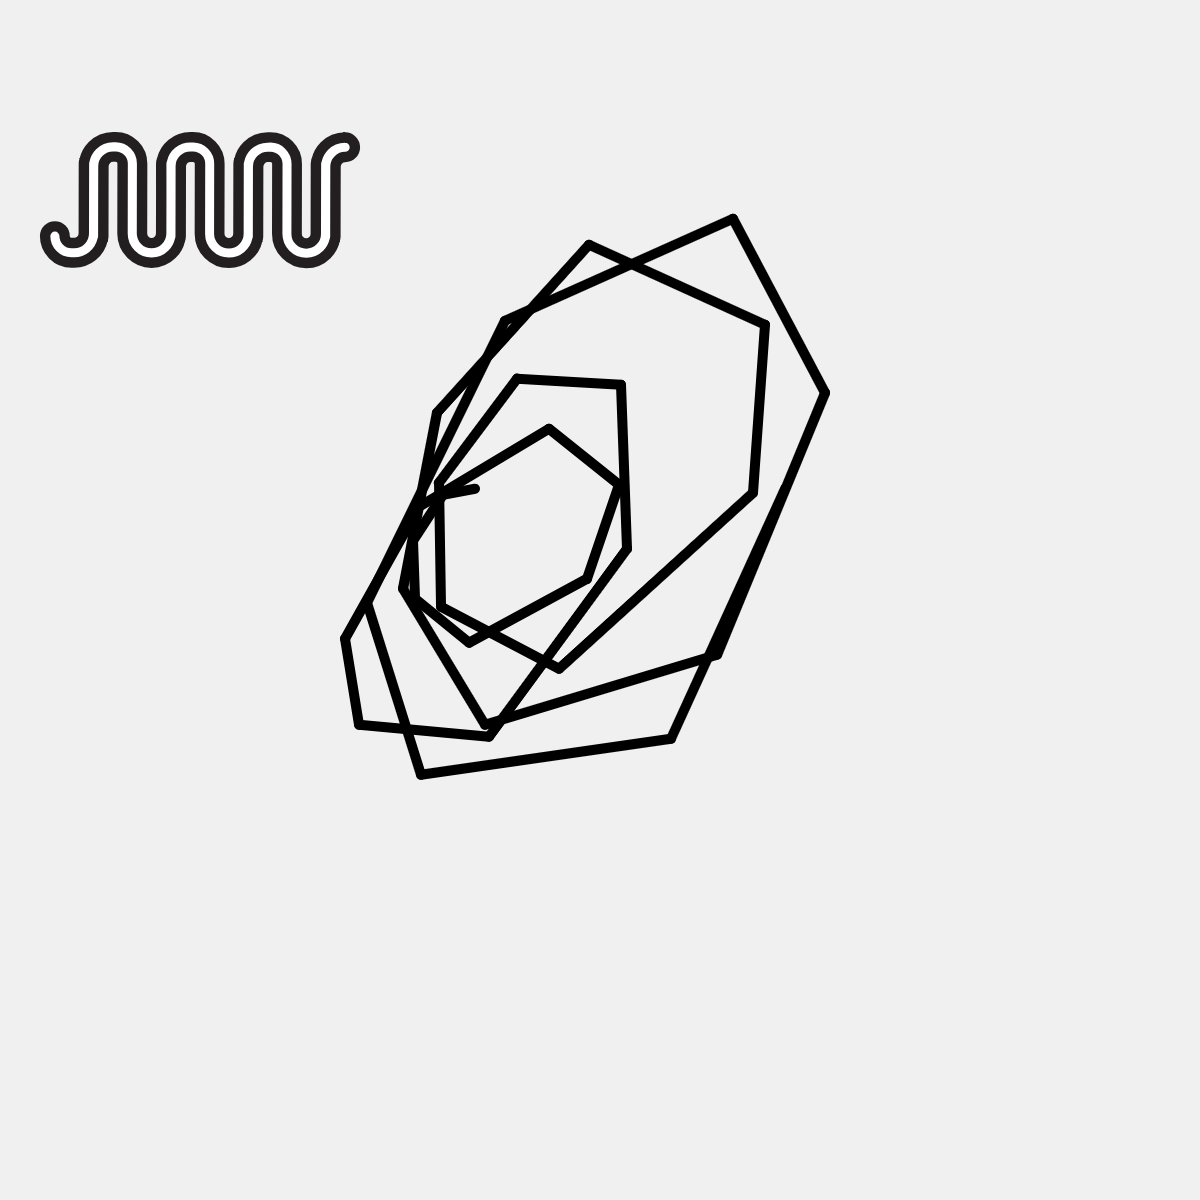
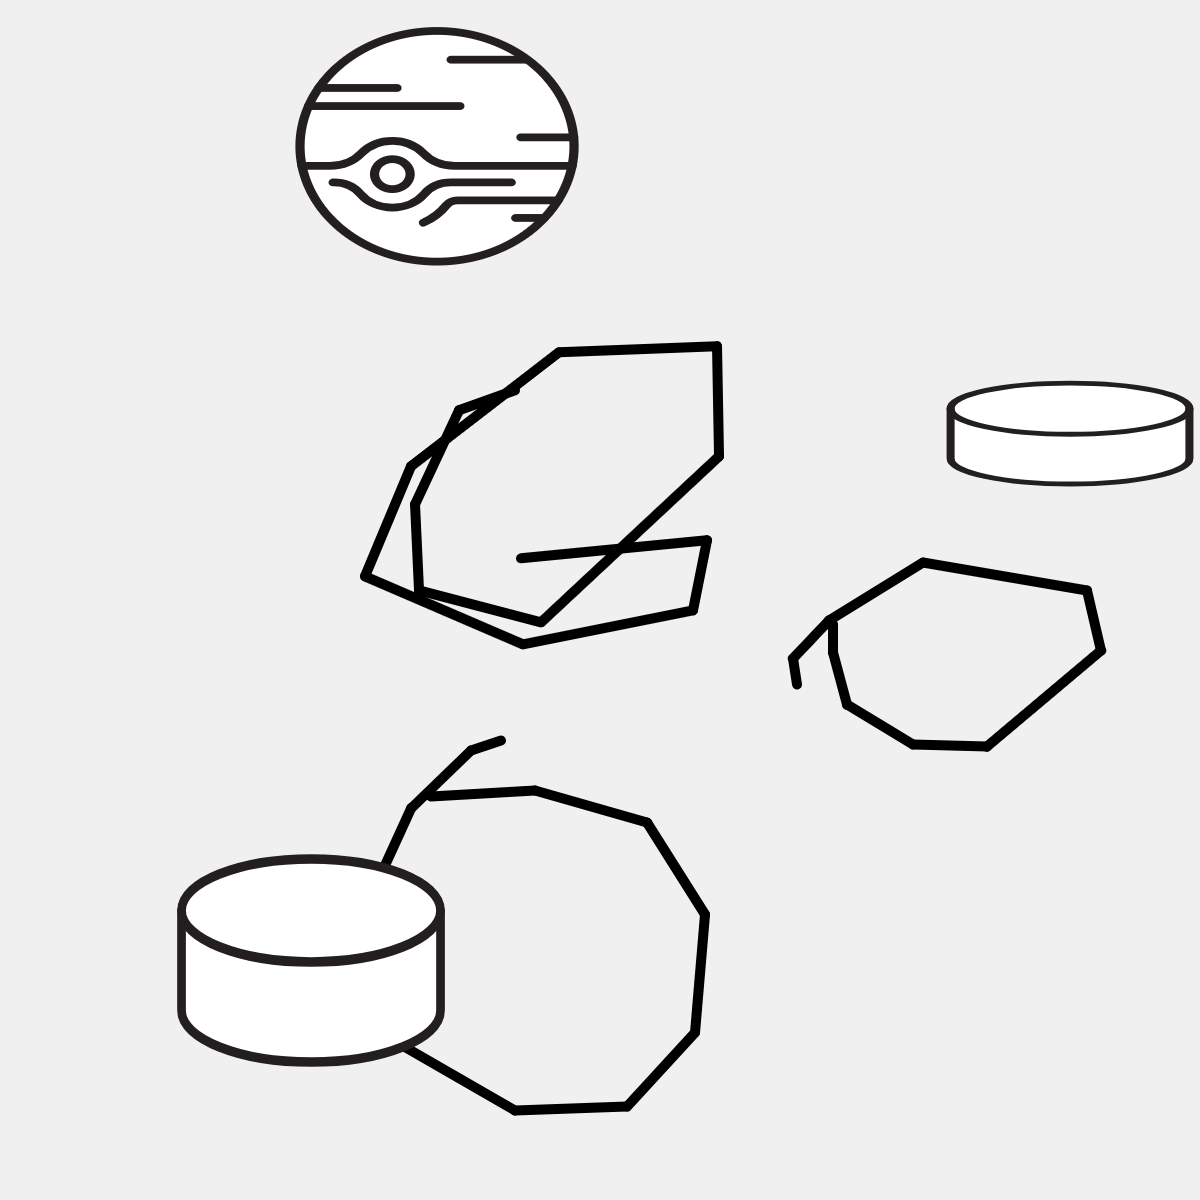
clearing images works, havnt gotten the dimensions/position super on point just yet tho

diff --git a/public/sketch.js b/public/sketch.js
@@ -24,7 +24,6 @@ var EPSILON = 2;
 var RESET_STRING = 'reset';
 
 
-
 // VARIABLES THAT ARE GOING TO CHANGE
 // ---
 
@@ -170,7 +169,7 @@ var s = function( p ) {
   */
   var process_user_input = function() {
 
-    if (p.mouseIsPressed) { // should bound this to the box...
+    if (p.mouseIsPressed && p.mouseX > 0 && p.mouseX < 600 && p.mouseY < 600 && p.mouseY > 0 ) { // should bound this to the box...
       if (!currently_drawing){ // not currently drawing
         x = p.mouseX;
         y = p.mouseY;
@@ -236,7 +235,6 @@ Display Suggestions
 */
 function displaySuggestions(arr) {
     var count = 0; // number of suggestion boxes... can change?
-    console.log(arr);
     cacheArr = [];
     // console.log(elem.innerHTML);
     arr.forEach((a) => {
@@ -317,12 +315,34 @@ s1box.addEventListener('click', () => {
   var canvas = document.getElementById('defaultCanvas0');
   var context = canvas.getContext('2d');
   var img = new Image();
+  var dimensions = getDimensions(adx, ady);
+  var position = getPosition(adx, ady);
+  var h = dimensions[0];
+  var w = dimensions[1];
+  var x = position[0] - w;
+  var y = position[1] - h;
   img.src = './imgs/cache0.svg';
+  resetScreen();
   img.onload = function(){
     console.log('loaded');
-    context.drawImage(img,0,0,200,200);
+    context.drawImage(img,x,y,h,w);
   };
 });
+
+var resetScreen = function() {
+  // clear all the position and time arrays
+  adx = [];
+  ady = [];
+  adt = [];
+  lines = [];
+
+  var imgs = Array.from(document.getElementsByClassName('suggestion-img'));
+  var l = imgs.length;
+  for (var i = 0; i < l; i++) {
+    var img = imgs[i];
+    img.parentNode.removeChild(img);
+  }
+}
 
 // arr is the array of images that should be cached.
 // 'cached' means I am storing them in a temp img folder.
@@ -337,6 +357,39 @@ var cacheImages = function(arr) {
       console.log('it worked');
     }
   });
+
+}
+
+/*
+Get Dimensions
+---
+
+We need this function to get the width/height of the users drawing. Probably
+going to have to do this on a stroke by stroke basis. There are so many moving parts
+to this project, YIKES alert, it needs some organizing but I dont Have TIME!
+
+probably just need to clear this whenever they submit.
+aka that would turn into a new drawing duh.
+*/
+var getDimensions = function(adx,ady){
+  var maxX = Math.max.apply(null, adx);
+  var minX = Math.min.apply(null, adx);
+  var maxY = Math.max.apply(null, ady);
+  var minY = Math.min.apply(null, ady);
+
+  var dx = maxX - minX;
+  var dy = maxY - minY;
+
+  return [dx,dy];
+}
+
+var getPosition = function(adx, ady){
+  var xSort = adx.slice(0).sort();
+  var ySort = ady.slice(0).sort(); // we dont want to mutate these arrays.
+
+  var mid = parseInt(xSort.length/2); // mid is same for both... needs to be integer for array indexing later.
+
+  return [adx[mid], ady[mid]];
 
 }
 

diff --git a/server.js b/server.js
@@ -27,7 +27,8 @@ app.post('/save', (req, res) => {
 });
 
 app.post('/cache', (req, res) => {
-  var urls = req.body['urls[]'];
+  console.log(req.body);
+  var urls = req.body['urls'];
   urls.forEach((url,i) => {
     download(url, './public/imgs/cache'+i+'.svg', function(){
       console.log('picture saved'); //?
